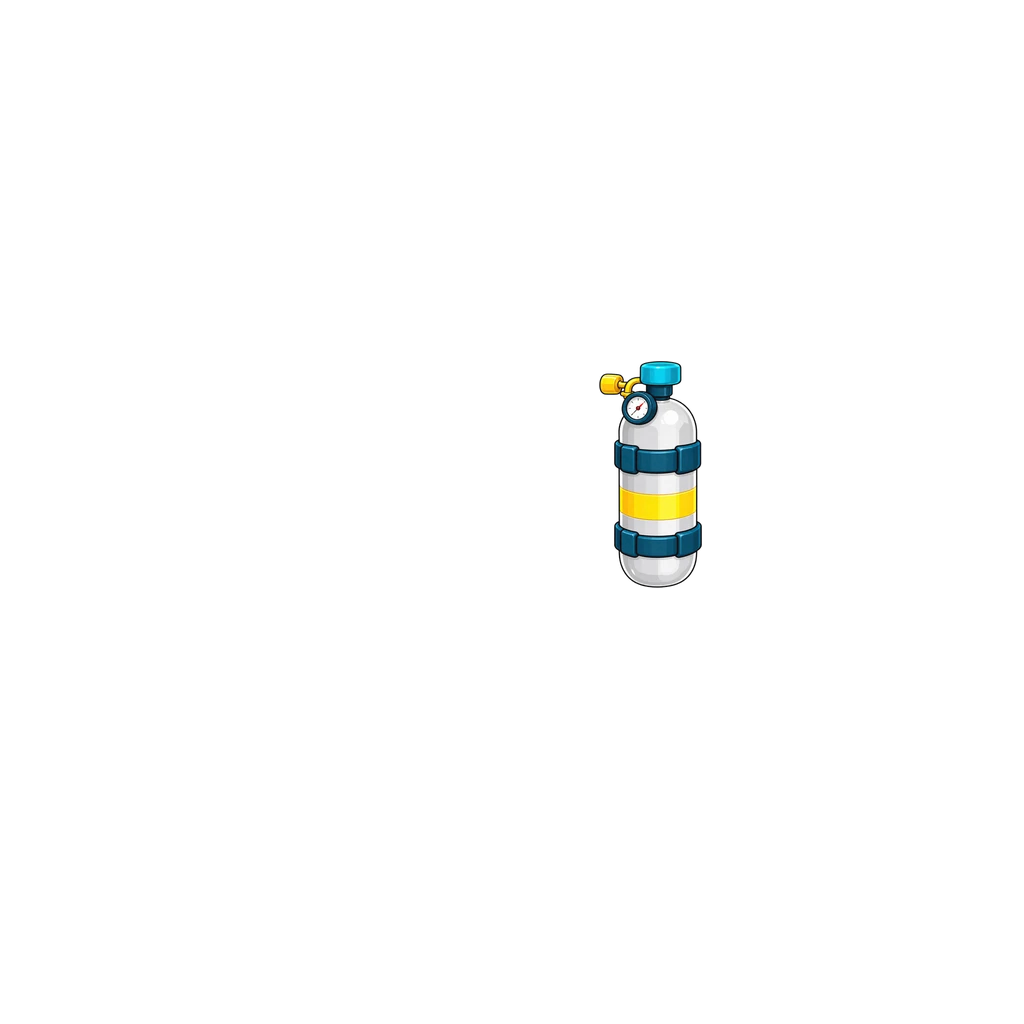
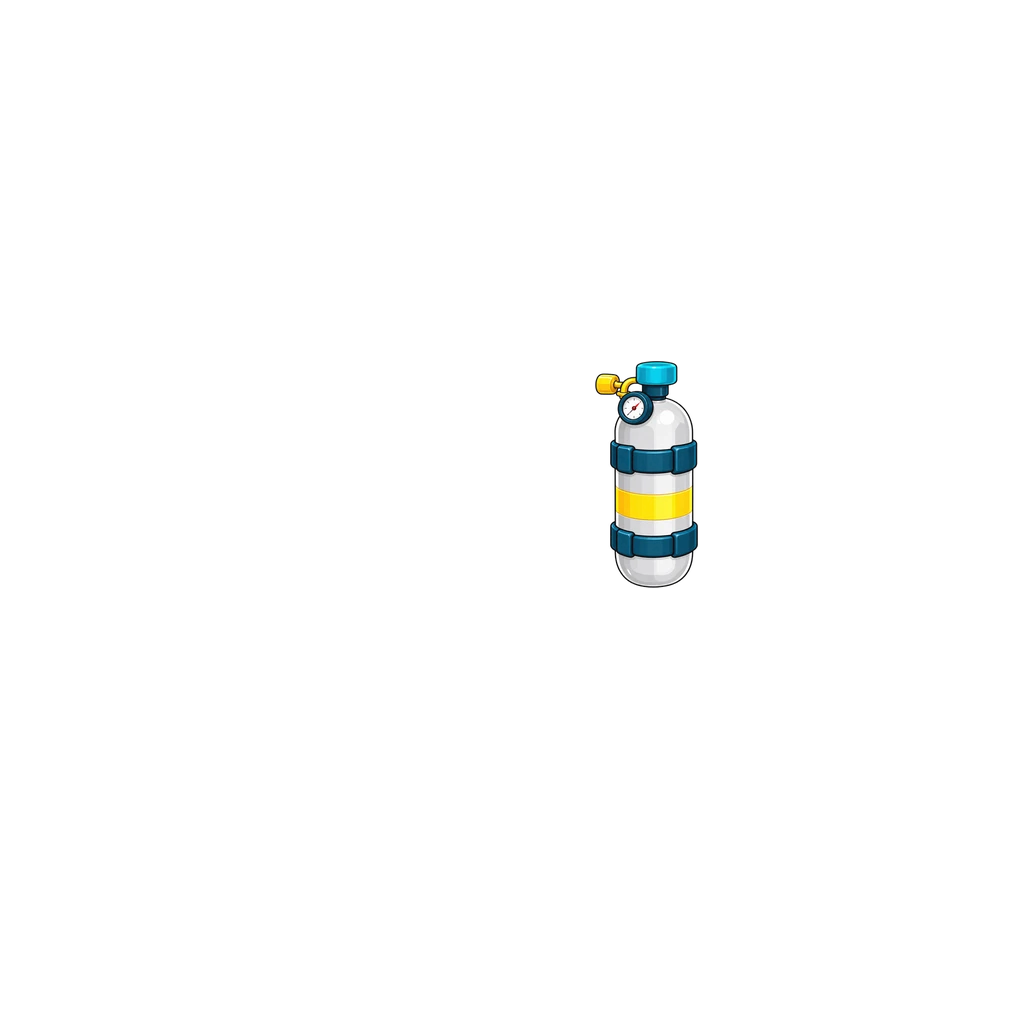
바다 산소통 왼쪽으로 4 (#946)
어깨끈은 그대로 두고 등 뒤 산소통만 옮겼다.

Claude-Session: https://claude.ai/code/session_018maNuYqDfFyRSe9uKpZhPR

Changed region(s): [[0.5938, 0.3438, 0.6875, 0.5625]]

diff --git a/src/data/avatarEquipment.js b/src/data/avatarEquipment.js
@@ -483,8 +483,9 @@ export const AVATAR_CATALOG = [
   /* 바다 산소통 [2026-10-05] — 남아. 산소통(사용자 원화 196×433)은 등 뒤 맨 뒤(z 12), 어깨끈 두 줄(283×172)은 맨 앞(zFront 48).
      사용자 배치 참고 그림을 얼굴 매칭(0.847, 물안경이 눈을 가려 코~입으로)으로 아바타 좌표에 올려 위치를 땄다.
      산소통 배율 0.524·원점 (599,361) (참고 그림 쪽이 조금 홀쭉해서 높이·오른쪽 끝 기준), 끈 매칭 0.967 배율 0.700×0.658·원점 (420,431).
-     번개 보드와 같은 손 장비 칸. 산소통 상자 (599,361,702,588), 끈 상자 (420,431,618,544). */
-  { id: "hand_tank_boy", slot: "hand",  label: "바다 산소통", emoji: "🤿", price:DECOR_PRICE.rare, rarity: "rare", theme: "common", forGender: "boy", z: 12, img: "assets/avatar/hand/sea-tank-boy.webp", imgFront: "assets/avatar/hand/sea-tank-straps-boy.webp", zFront: 48, thumb: "assets/avatar/thumb/hand_tank_boy.webp" },
+     번개 보드와 같은 손 장비 칸. 산소통 상자 (599,361,702,588), 끈 상자 (420,431,618,544).
+     [2026-10-05] 사용자 조정 — 산소통만 왼쪽으로 4(원점 (595,361)). 산소통 상자 (595,361,698,588). img ?v=2. */
+  { id: "hand_tank_boy", slot: "hand",  label: "바다 산소통", emoji: "🤿", price:DECOR_PRICE.rare, rarity: "rare", theme: "common", forGender: "boy", z: 12, img: "assets/avatar/hand/sea-tank-boy.webp?v=2", imgFront: "assets/avatar/hand/sea-tank-straps-boy.webp", zFront: 48, thumb: "assets/avatar/thumb/hand_tank_boy.webp" },
   /* ── 우주 세트 (남아) — 사용자 원화 2026-09-29 ────────────────────────────
      우주복(top_space)과 같은 원화 세트에서 나온 가방·신발. 둘 다 남아 전용 첫
      세트 아이템이고(back·shoes 슬롯에 살아 있는 아이템이 이제껏 하나도 없었다),

diff --git a/art-src/README.md b/art-src/README.md
@@ -636,5 +636,5 @@ bbox로 여백만 잘라내고 배포본은 높이 480px로 축소했다(전부 
 | wildflower-crossbag-girl-src.webp | **들꽃 크로스백 원화 여아 (사용자 원화 2026-10-05)** — 갈색 가죽 크로스백·흰 들꽃 장식, 들꽃 탐험가 옷과 짝. 사용자 배치 참고 그림(얼굴 매칭 0.915)에 맞춰 가방 몸통 매칭(0.986) 배율 0.73·-1° 회전·이음매 (526,568), 끈은 떼어 옷깃 아래 끝(463,421)까지 늘이고 y419 위는 지움. z 38. 탑재 상자 (462,420,622,665) (img ?v=2). 사용자 조정 5% 작게 — 배율 0.694·끈 윗끝 고정·이음매 (523,561), 탑재 상자 (462,420,614,653) (img ?v=3). 5% 더 작게 — 배율 0.659·이음매 (520,554), 탑재 상자 (462,420,606,641) (img ?v=4). 4% 크게·왼쪽으로 2 — 배율 0.686·끈 윗끝 (461,421), 탑재 상자 (460,420,610,650) (img ?v=5). 2% 크게·왼쪽으로 1 — 배율 0.699·끈 윗끝 (460,421), 탑재 상자 (459,420,612,655) (img ?v=6). 위로 2·왼쪽으로 2 — 끈 윗끝 (458,419), 탑재 상자 (457,418,610,653) (img ?v=7). 상점 그림은 원화를 세로 160px 로 | avatar/back/wildflower-crossbag-girl.webp · thumb/back_crossbag_girl.webp |
 | wildflower-crossbag-front-girl-src.webp | **들꽃 크로스백 앞장 원화 여아 (사용자 원화 2026-10-05)** — 끈이 조금 긴 가방(뒤 끈 없음) 233×364. 들꽃 탐험가 옷이 아닐 때 맨 앞(zFront 48). 원래 원화와 몸통 매칭 0.986·배율 0.985, 들꽃 배치와 같은 변환. 탑재 상자 (449,393,611,653) → 5% 크게·위로 5(배율 0.734) (448,388,619,661) (img ?v=2) → 위로 5 더 (448,383,619,656) (img ?v=3) → 위로 2 더 (448,381,619,654) (img ?v=4) → 위로 2 더 (448,379,619,652) (img ?v=5) → 왼쪽 2·위로 1 (446,378,617,651) (img ?v=6) | avatar/back/wildflower-crossbag-front-girl.webp |
 | wildflower-crossbag-back-girl-src.webp | **들꽃 크로스백 뒤장 원화 여아 (사용자 원화 2026-10-05)** — 오른쪽 뒤로 넘어가는 끈 조각 32×43(원래 원화 (169,170) 자리). 들꽃 탐험가 옷이 아닐 때 맨 뒤(z 14). 탑재 상자 (570,532,591,562) → 5% 크게·위로 5(배율 0.734) (575,533,598,565) (img ?v=2) → 위로 5 더 (575,528,598,560) (img ?v=3) → 위로 2 더 (575,526,598,558) (img ?v=4) → 위로 2 더 (575,524,598,556) (img ?v=5) → 왼쪽 2·위로 1 (573,523,596,555) (img ?v=6) | avatar/back/wildflower-crossbag-back-girl.webp |
-| sea-tank-boy-src.webp | **바다 산소통 원화 남아 — 산소통 (사용자 원화 2026-10-05)** — 흰 산소통(노란 띠·게이지). 등 뒤 맨 뒤 z 12. 참고 그림 얼굴 매칭 0.847로 위치, 배율 0.524·원점 (599,361). 탑재 상자 (599,361,702,588). 상점 그림은 원화를 세로 160px 로 | avatar/hand/sea-tank-boy.webp · thumb/hand_tank_boy.webp |
+| sea-tank-boy-src.webp | **바다 산소통 원화 남아 — 산소통 (사용자 원화 2026-10-05)** — 흰 산소통(노란 띠·게이지). 등 뒤 맨 뒤 z 12. 참고 그림 얼굴 매칭 0.847로 위치, 배율 0.524·원점 (599,361). 탑재 상자 (599,361,702,588) → 왼쪽으로 4 (595,361,698,588) (img ?v=2). 상점 그림은 원화를 세로 160px 로 | avatar/hand/sea-tank-boy.webp · thumb/hand_tank_boy.webp |
 | sea-tank-straps-boy-src.webp | **바다 산소통 원화 남아 — 어깨끈 (사용자 원화 2026-10-05)** — 남색 끈 두 줄·흰 버클. 맨 앞 zFront 48. 참고 그림 매칭 0.967, 배율 0.700×0.658·원점 (420,431). 탑재 상자 (420,431,618,544) | avatar/hand/sea-tank-straps-boy.webp |
